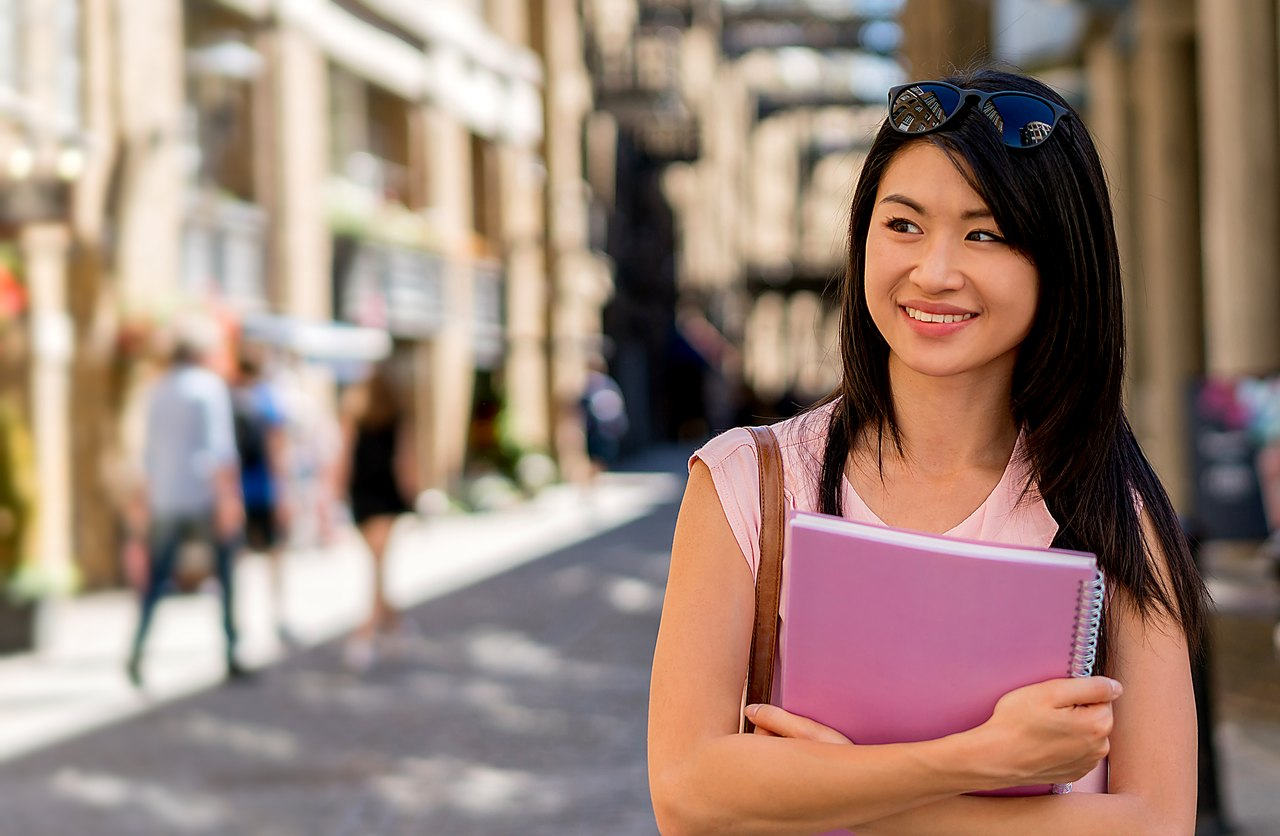
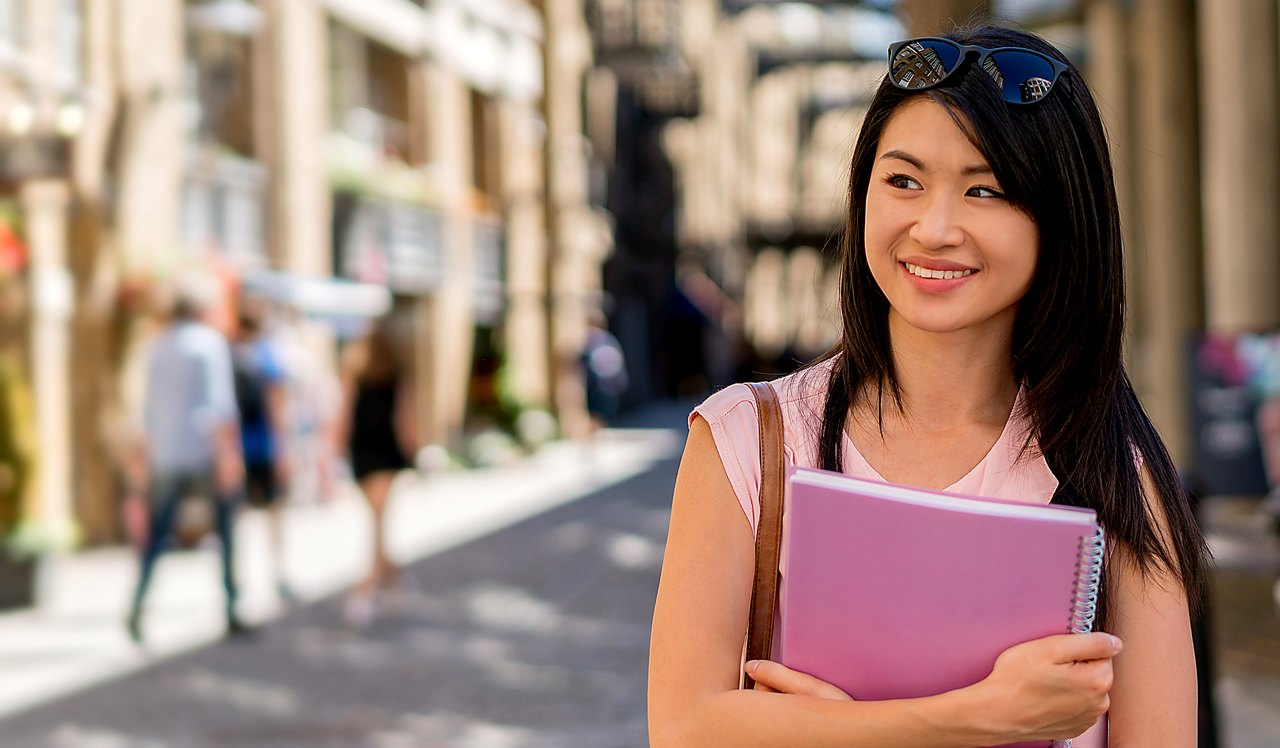
hero: push the subject up so both hands are in frame
Trimmed 110px of dead space above her hair and extended the crop 110px past
her fingers, then re-locked the section height to the new aspect. Her hair,
sunglasses, face and both hands are all inside the banner, and the section
is now 842px at 1440 rather than 940px, so it fits an ordinary laptop window.

diff --git a/components/hero.tsx b/components/hero.tsx
@@ -4,7 +4,7 @@ const checks = ["No credit card needed", "CEFR A1–C2", "Verified certificates"
 
 export function Hero() {
   return (
-    <section className="relative isolate overflow-hidden bg-indigo lg:min-h-[65.3vw]">
+    <section className="relative isolate overflow-hidden bg-indigo lg:min-h-[58.4vw]">
       {/* the photograph is the hero banner - everything below sits on top of it */}
       <picture>
         <source media="(max-width: 640px)" srcSet="/hero-student-1280.jpg" />
